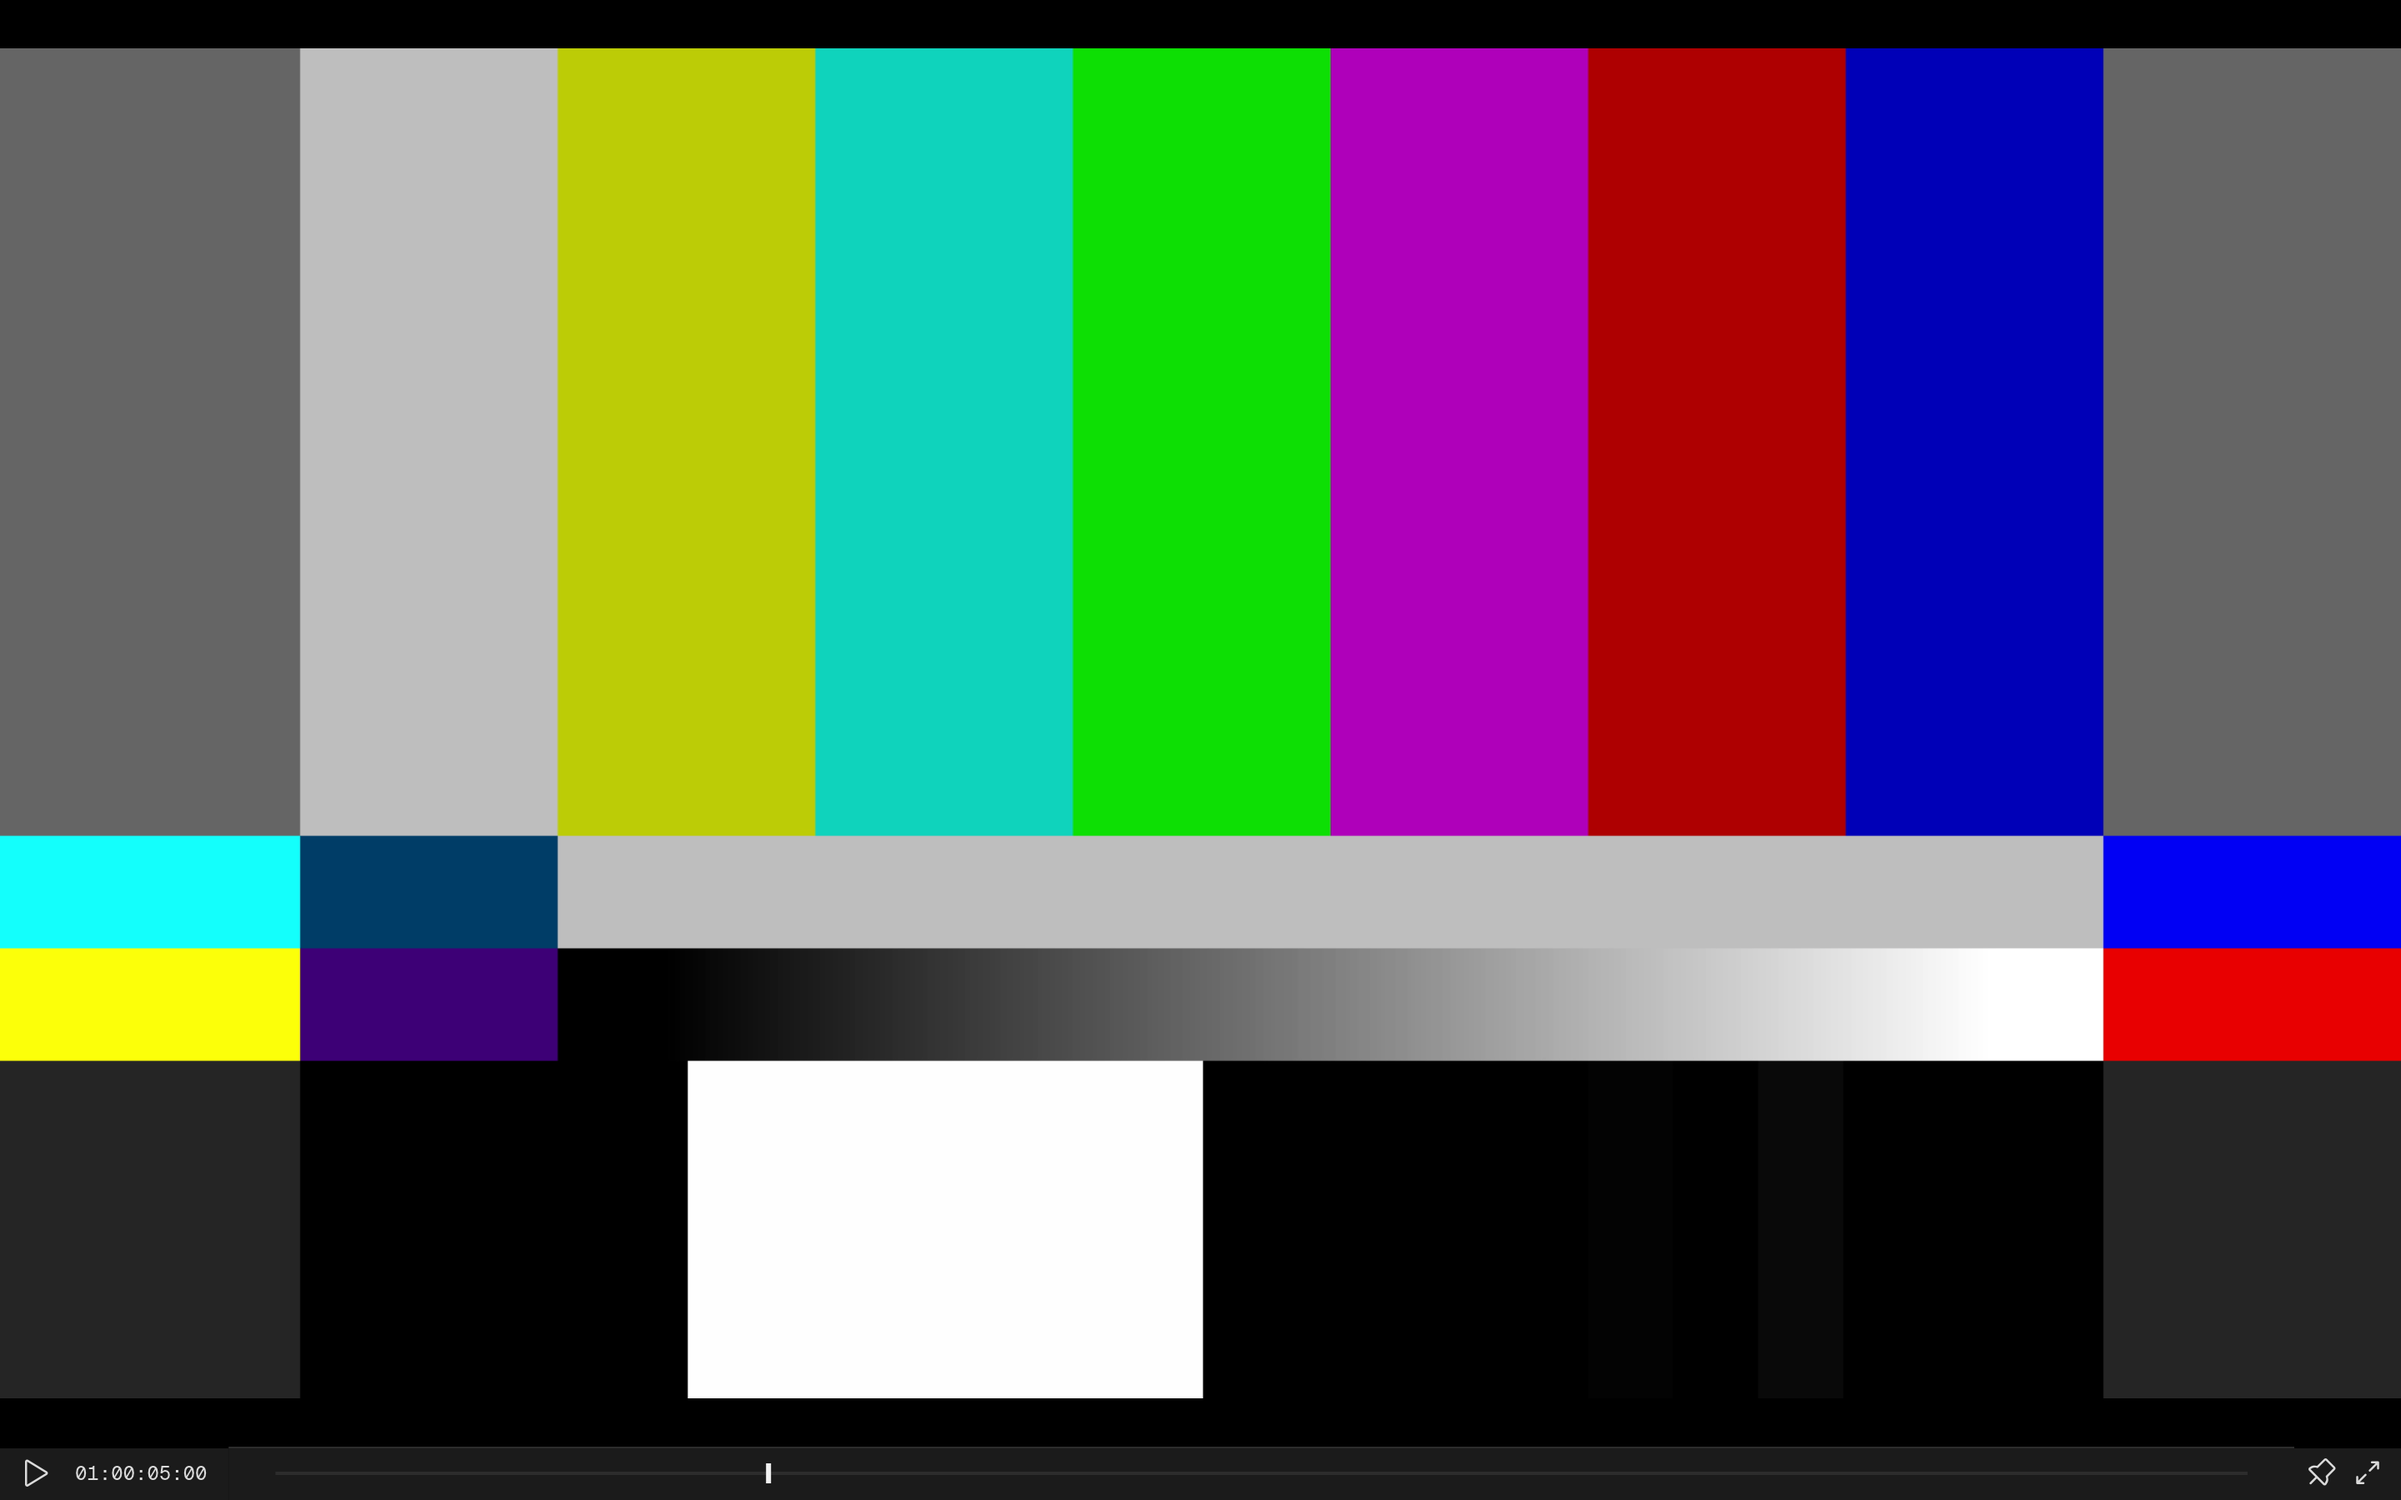
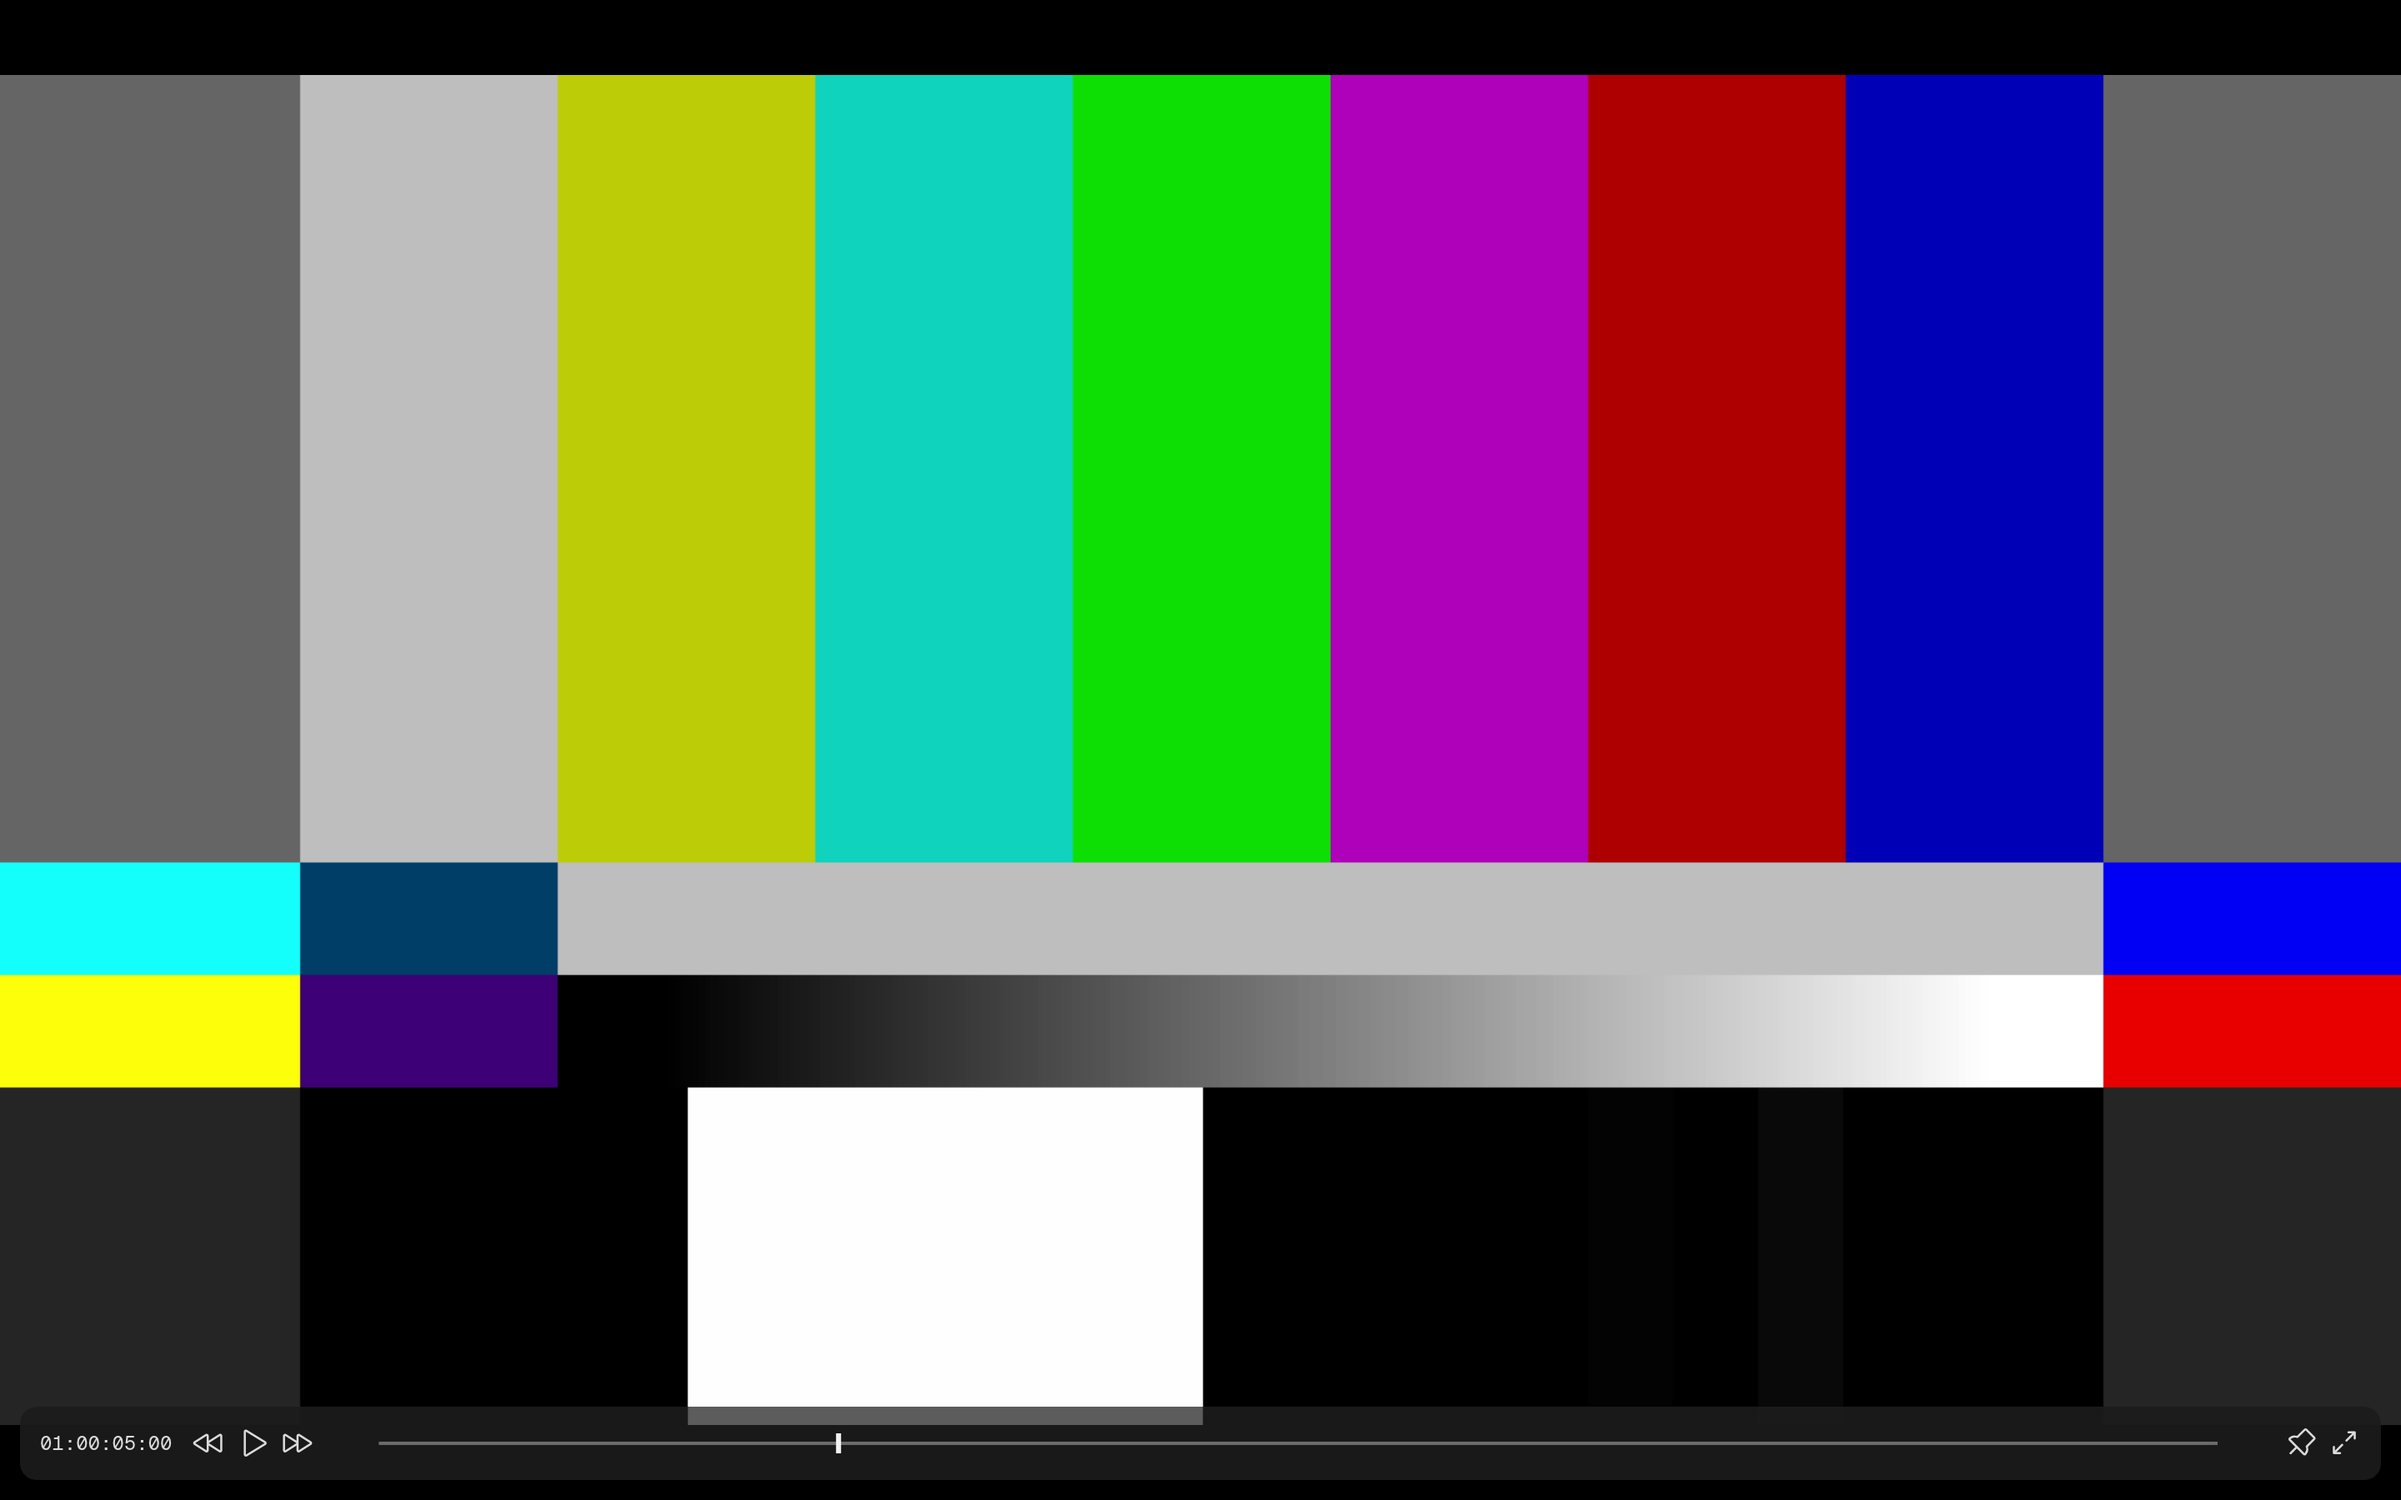
manual: 3.0.7 - Compact Mode's glass bar, the timecode that stays, the window's edge; the picture retaken

diff --git a/docs/basics.md b/docs/basics.md
@@ -82,12 +82,16 @@ The rails' widths, which rails are open, and the window's size and position are 
 
 | Preset | Shortcut | Description |
 |---|---|---|
-| Compact Mode | `Ctrl + Shift + C` | Viewport plus one slim strip: rewind, play / pause, fast-forward, timecode, a scrub line, the pin and exit. Press `Ctrl + Shift + C` again, `Esc`, or the strip's exit button to leave; your panels come back as they were |
-| Always on Top | `Ctrl + Alt + T` | The window stays above every other app's — handy for a reference beside an editor or a browser. The pin button at the right end of the transport row and on the Compact strip is the same toggle; the choice is remembered |
+| Compact Mode | `Ctrl + Shift + C` | The picture alone, with a glass bar over its foot while the pointer is on the window: timecode, rewind, play / pause, fast-forward, a scrub line, the pin and exit. Press `Ctrl + Shift + C` again, `Esc`, or the bar's exit button to leave; your panels come back as they were |
+| Always on Top | `Ctrl + Alt + T` | The window stays above every other app's — handy for a reference beside an editor or a browser. The pin button at the right end of the transport row and on Compact Mode's bar is the same toggle; the choice is remembered |
 | Fullscreen | `F` | The picture alone. Rest the pointer at the bottom edge of the screen and the status strip, transport row and timeline appear; they go away shortly after the pointer leaves. Press `F` or `Esc` to exit |
 | Default Size & Position | View menu | Puts the window back to its first-run size, centred on the screen it is on |
 
-Compact Mode is for a window that is nothing but the picture: every panel, rail and band goes away, the window loses its title bar, and one strip under the viewport keeps rewind, play / pause and fast-forward buttons (rewind and fast-forward run while held, as on the transport row), the timecode, a scrub line with the playhead and in / out marks, a pin (Always on Top) and an exit button; `F` still toggles fullscreen. The transport row has a Compact Mode button next to fullscreen. Drag the timecode, or the picture itself, to move the window. Scrubbing on the strip works the way the timeline does. On a live source the timecode reads **LIVE** and a red dot sits at the start of the line. On macOS the menu bar stays at the top of the screen; on Windows the menu is hidden with the rest of the chrome, so use the shortcuts.
+Compact Mode is for a window that is nothing but the picture: every panel, rail and band goes away, the title bar goes with them, and the picture fills the window. Move the pointer over the window and a glass bar appears over the foot of the picture with the timecode, rewind, play / pause and fast-forward buttons (rewind and fast-forward run while held, as on the transport row), a scrub line with the playhead and in / out marks, a pin (Always on Top) and an exit button. The bar fades when the pointer leaves the window or has rested for two seconds anywhere but on the bar. Scrubbing on the line works the way the timeline does, hover thumbnails included.
+
+While the bar is away the timecode stays, on a small plate at the bottom left. Click the timecode in the bar to turn that off, and again to bring it back; the choice is remembered.
+
+Drag the picture to move the window; in Compact Mode this works even with **Drag viewport to move window** turned off in Settings. On macOS the window keeps its rounded corners. On Windows the window has a shadow and resizes from its edges and corners. `F` still toggles fullscreen, and the transport row has a Compact Mode button next to fullscreen. On a live source the timecode reads **LIVE** and a red dot sits at the start of the line. On macOS the menu bar stays at the top of the screen; on Windows the menu is hidden with the rest of the chrome, so use the shortcuts.
 
 ![Compact Mode](images/qcv3_006.png)
 

diff --git a/docs/installation.md b/docs/installation.md
@@ -68,6 +68,12 @@ See the [QCBridge](/qcbridge/) page for installation and usage guides for the ad
 
 ## Version History
 
+What's new in 3.0.7
+
+- **Compact Mode: the picture fills the window** — the strip under the picture is gone. Its controls (timecode, rewind, play / pause, fast-forward, the scrub line, the pin and exit) sit on a glass bar over the foot of the picture. The bar shows while the pointer moves over the window and fades when the pointer leaves or has rested for two seconds.
+- **Compact Mode: the timecode stays** — while the bar is away, the timecode remains on a small plate at the bottom left. Click the timecode in the bar to turn that off or back on; the choice is remembered.
+- **Compact Mode: the window** — on macOS the window keeps its rounded corners and edge line. On Windows it has a shadow and can be resized from its edges and corners. Dragging the picture moves the window, whatever the "Drag viewport to move window" setting says.
+
 What's new in 3.0.6
 
 - **Fixed: Quick Look previews were half size (macOS)** — on a Retina screen 3.0.5's previews of EXR and MXF files opened at half the width and height of the system's own. They now open at the picture's full size, fitted to the screen.

diff --git a/docs/settings.md b/docs/settings.md
@@ -28,7 +28,7 @@ A default A/V sync offset trim is applied at session start. **A/V sync (Single)*
 
 ## Drag Viewport to Move Window
 
-On by default. Click and drag anywhere on the viewport to move the whole window, the way media players do; this works in Compact Mode too. A plain click still does nothing, and the drag does not move the window while a drawing tool is selected, while you are dragging the Split-Wipe seam, or in fullscreen. Turn it off here if you use a tablet and would rather a press with no tool never moves anything.
+On by default. Click and drag anywhere on the viewport to move the whole window, the way media players do. Compact Mode always moves the window this way, whatever this setting says. A plain click still does nothing, and the drag does not move the window while a drawing tool is selected, while you are dragging the Split-Wipe seam, or in fullscreen. Turn it off here if you use a tablet and would rather a press with no tool never moves anything.
 
 ## Hover Thumbnails
 

diff --git a/docs/index.md b/docs/index.md
@@ -48,8 +48,8 @@ nav_order: 1
 - Dual-view comparison: side-by-side, split-wipe with mouse-drag seam, difference mode, a colour chain per side, a live feed on either side
 - Title-safety guides for broadcast and social-media deliverables
 - Live background switching for alpha-channel review
-- **Compact Mode** (`Ctrl + Shift + C`): the window becomes the picture plus one slim strip, no title bar, no panels
-- **Always on Top** (`Ctrl + Alt + T`): a pin on the transport row and the Compact strip keeps the window above every other app's, and is remembered
+- **Compact Mode** (`Ctrl + Shift + C`): the window becomes the picture alone, with glass controls that appear over it under the pointer; no title bar, no panels
+- **Always on Top** (`Ctrl + Alt + T`): a pin on the transport row and on Compact Mode's bar keeps the window above every other app's, and is remembered
 
 ### Project Support
 - Adobe project metadata (Premiere / After Effects timecode + project links), read from the file itself
